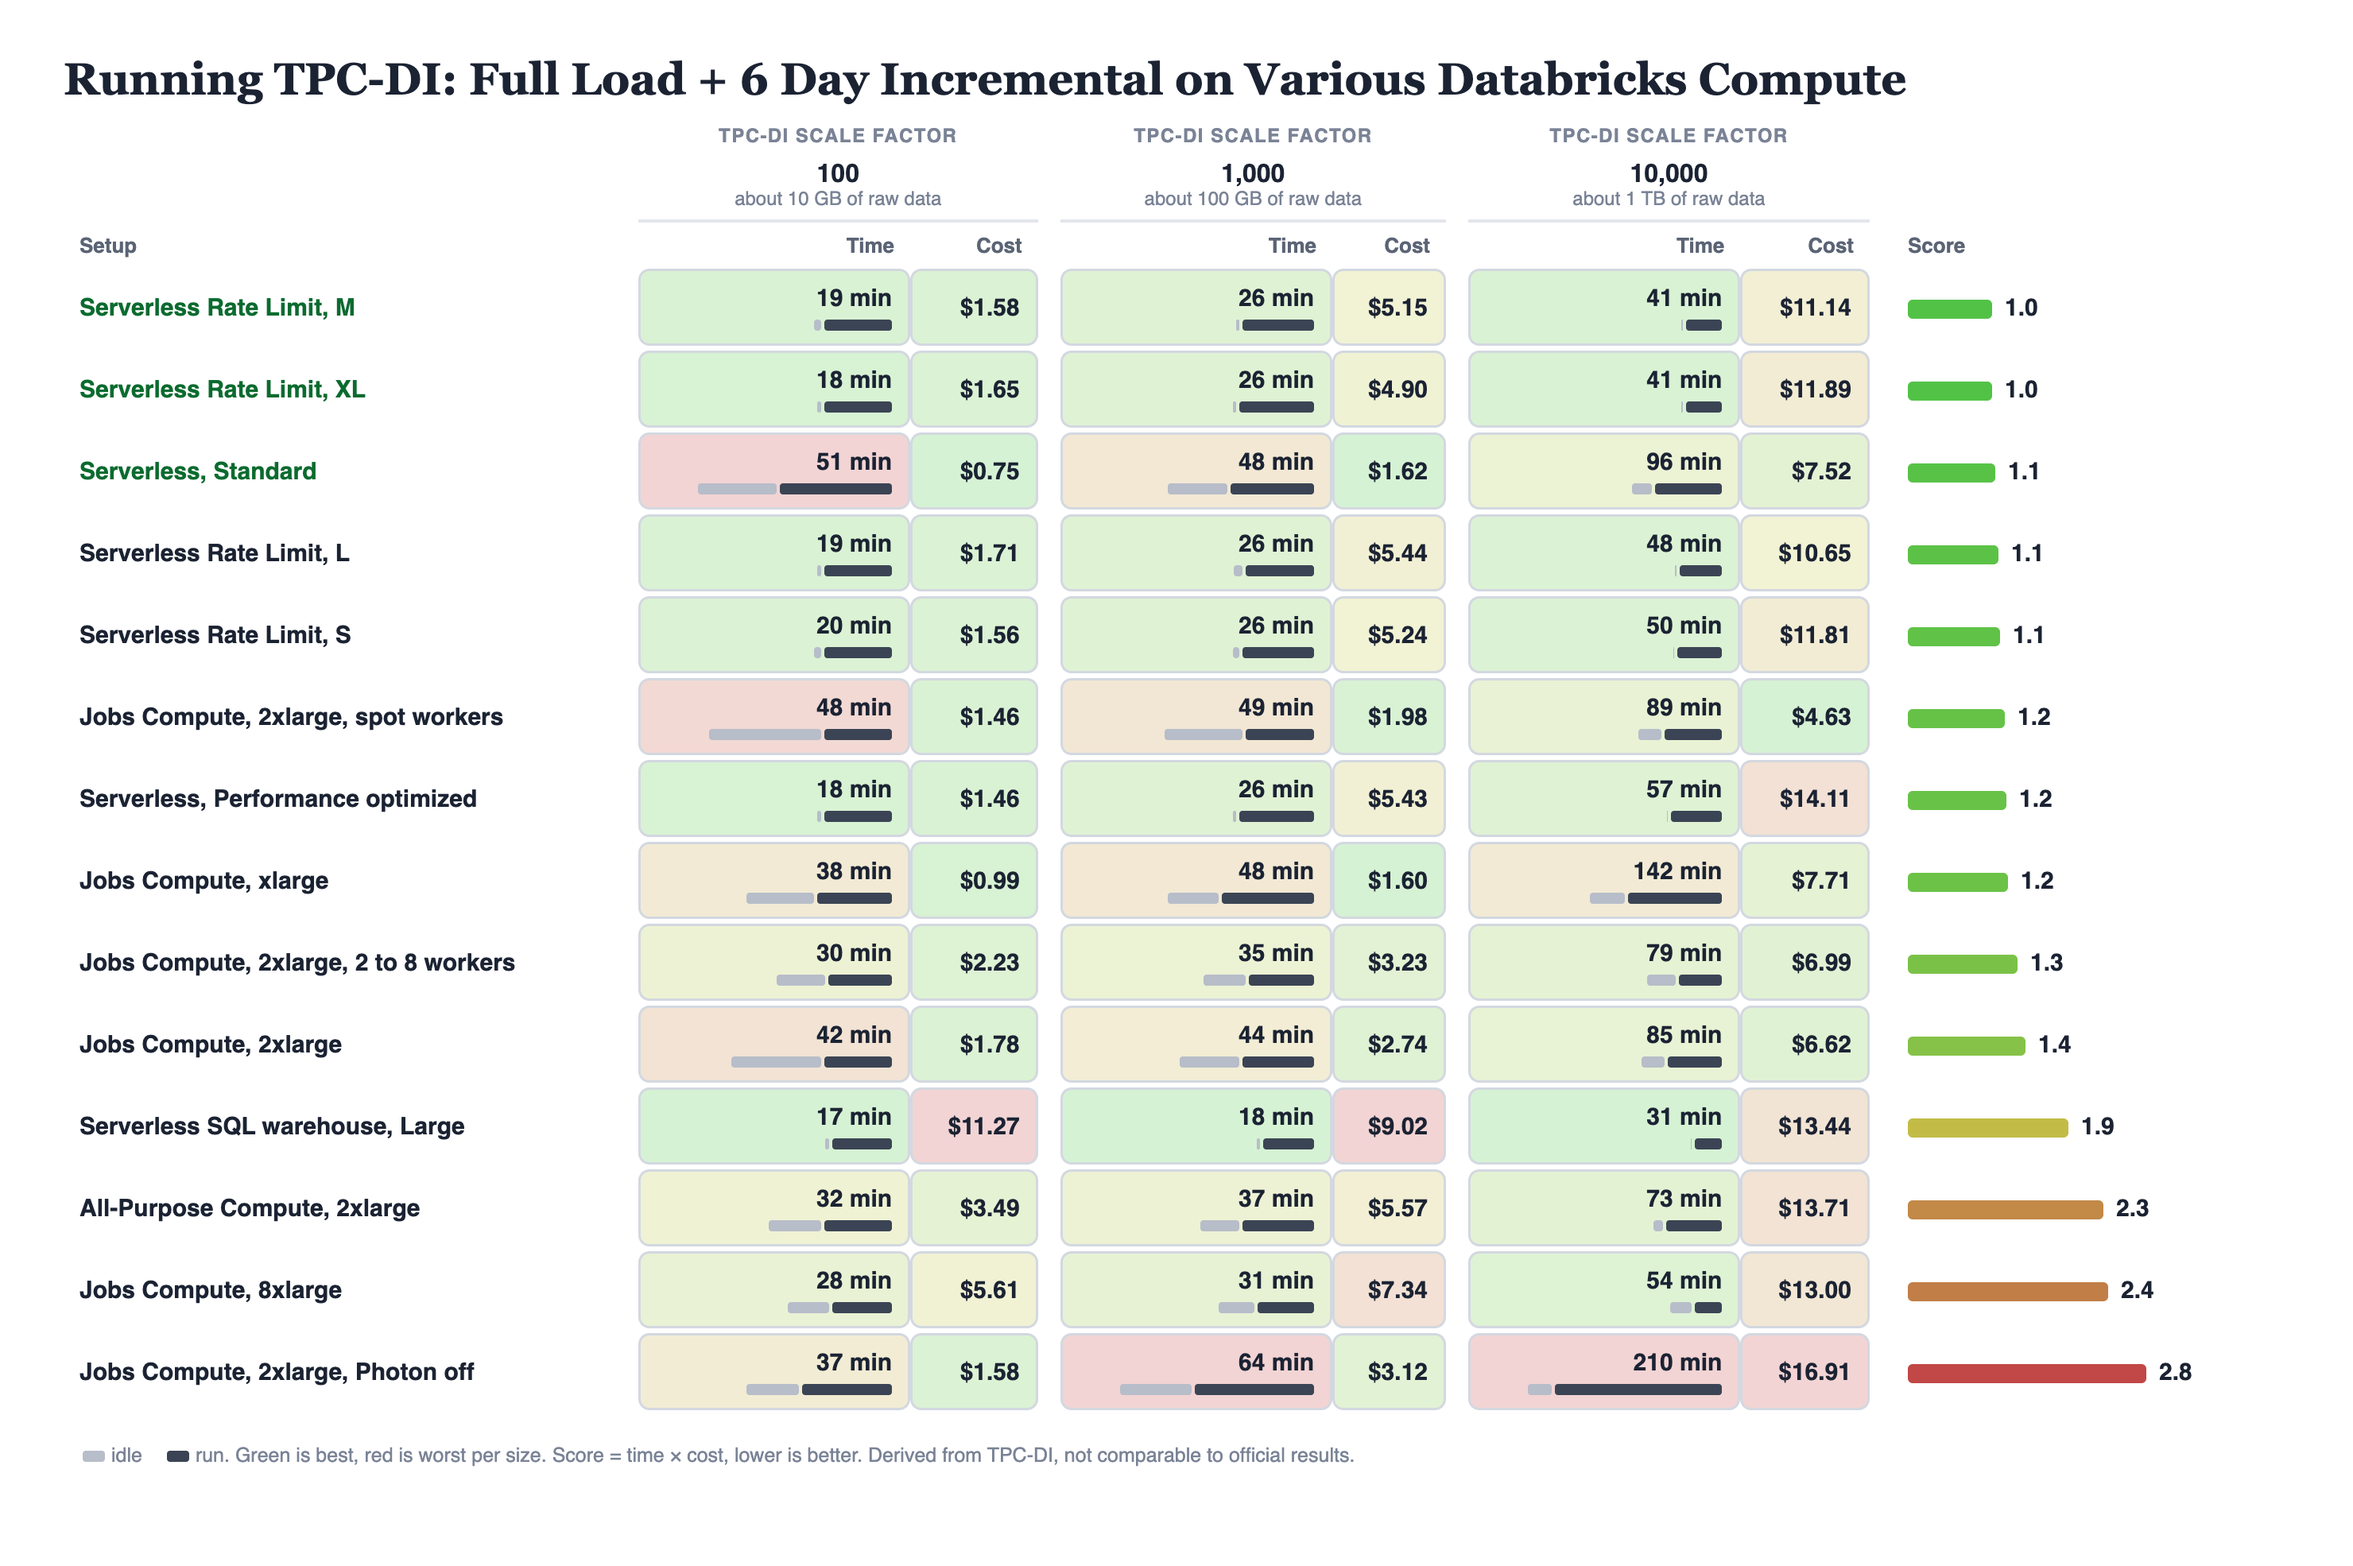
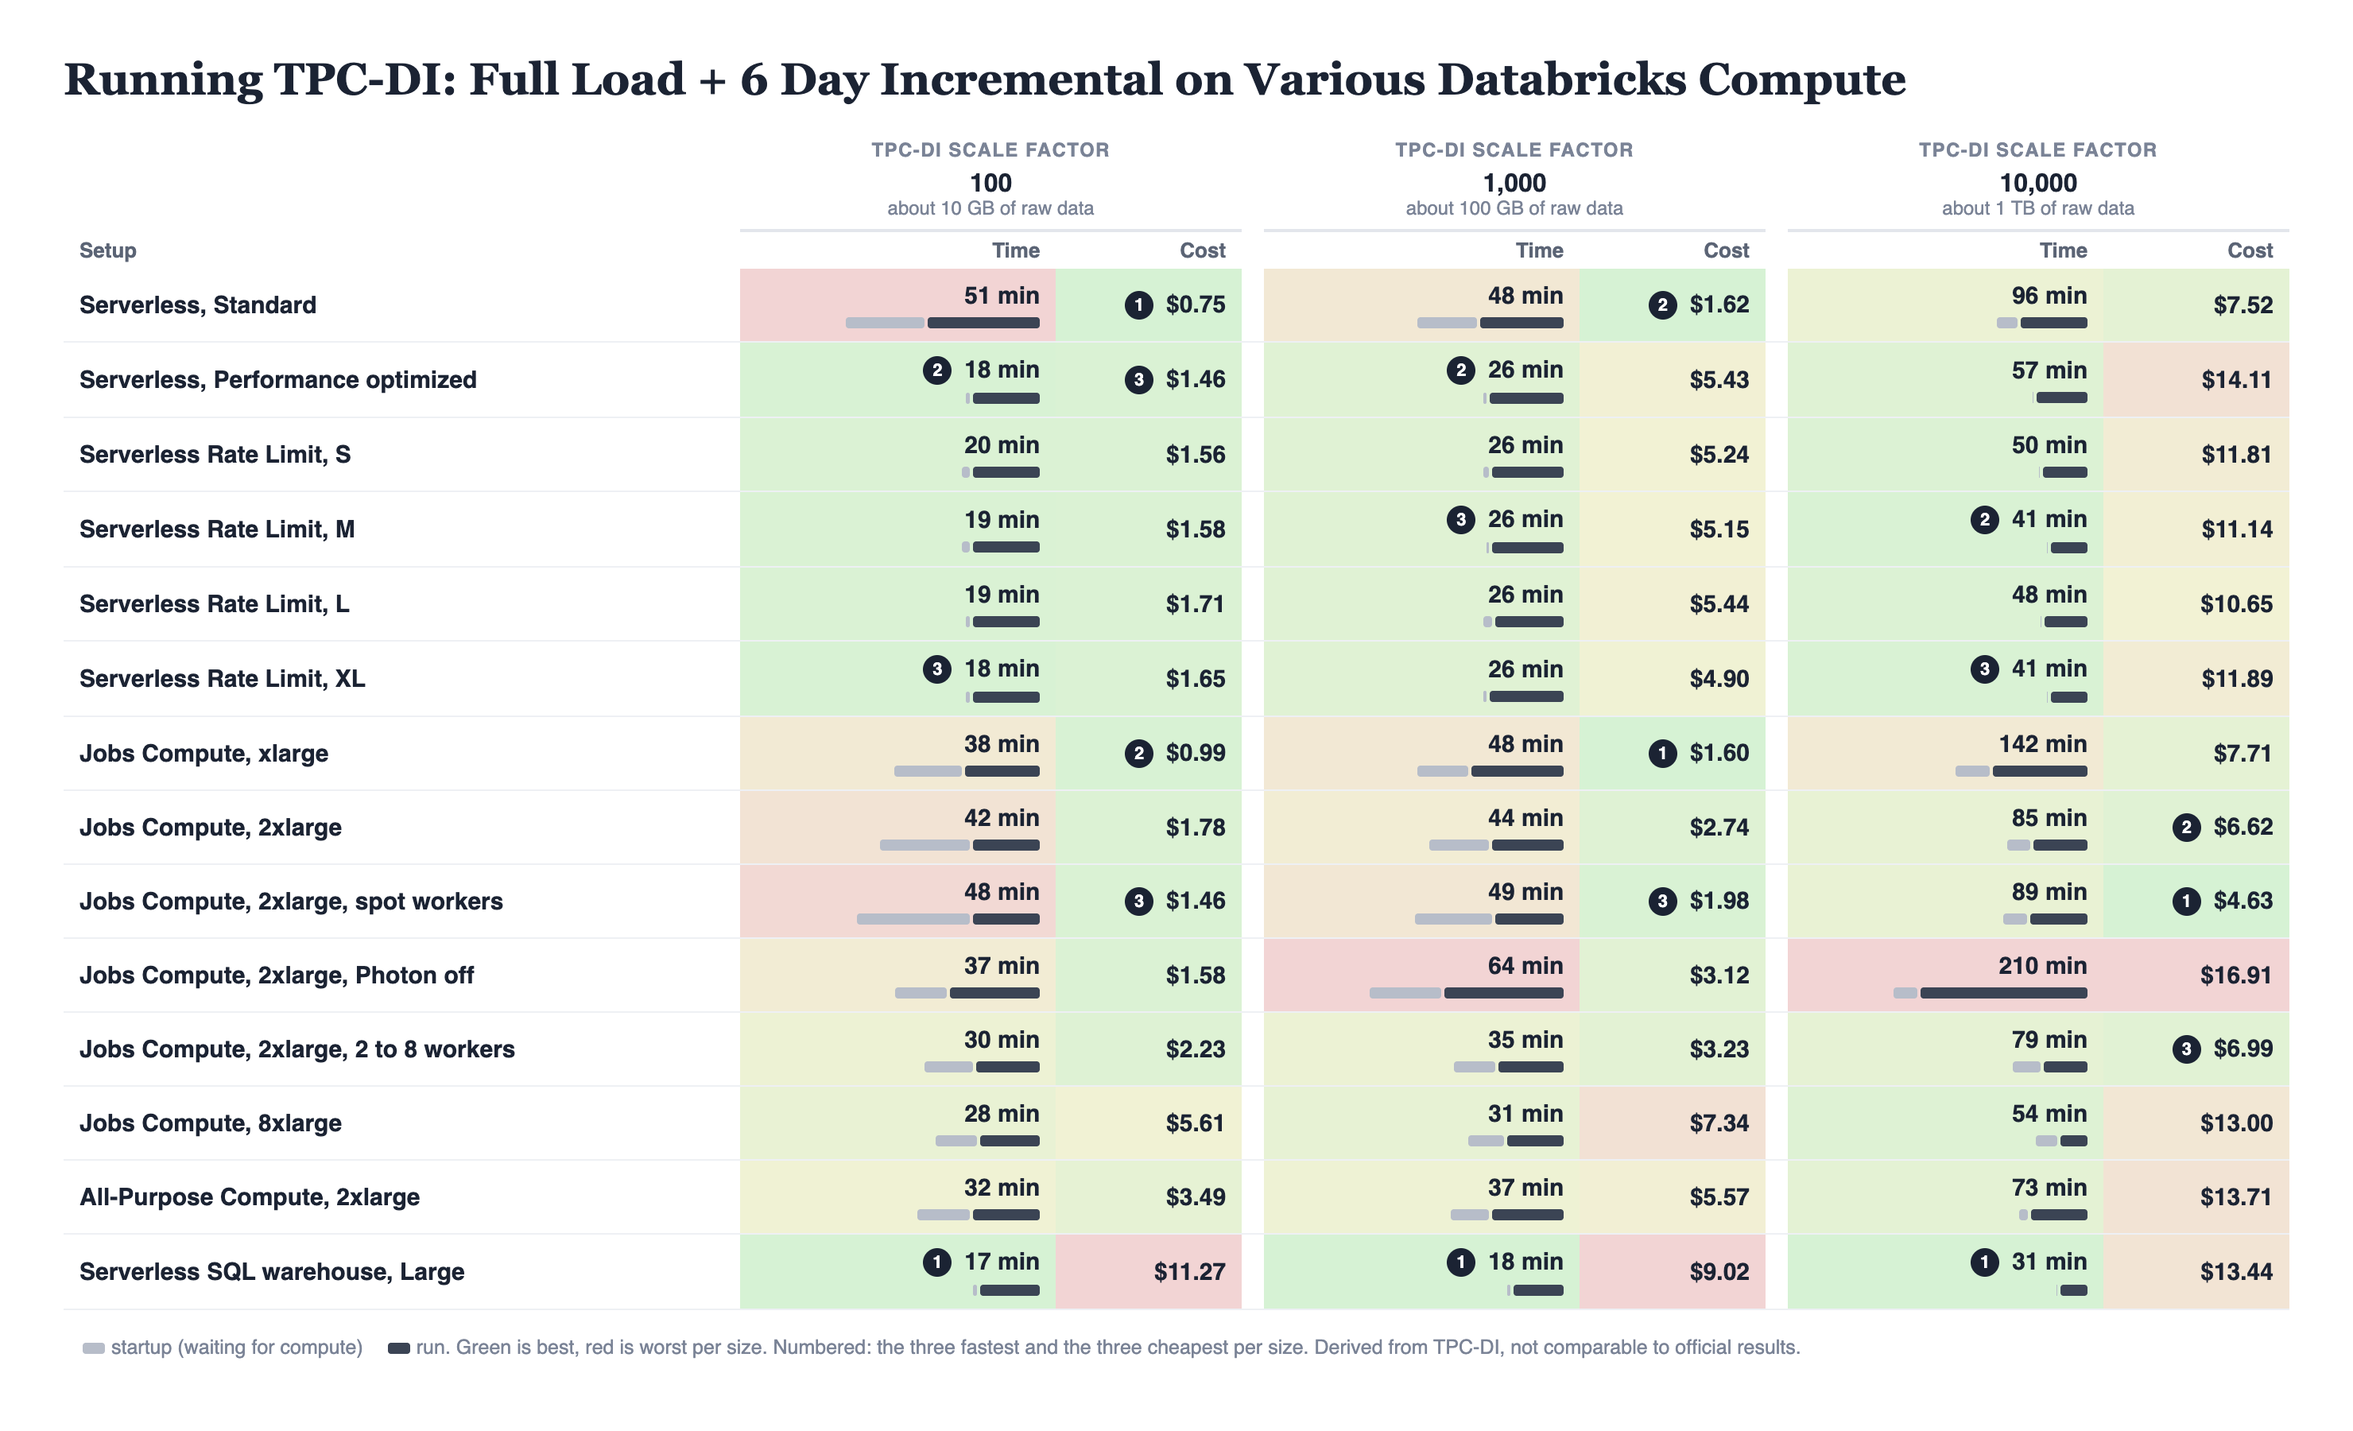
Results: time and cost only, top 3 numbered per size, startup instead of idle

diff --git a/README.md b/README.md
@@ -17,32 +17,31 @@ The reasoning for each is in [docs/conclusions.md](docs/conclusions.md).
 
 ## Results
 
-Each cell is the **full load plus six days** added together: idle minutes (waiting) + run minutes (working) = total minutes, and cost (Databricks plus AWS list price). Every cell is one run. In the picture, green is best and red is worst within each size.
+Each cell is the **full load plus six days** added together: startup minutes (waiting for compute) + run minutes (working) = total minutes, and cost (Databricks plus AWS list price). Every cell is one run. In the picture, green is best and red is worst within each size.
 
 ![Results: minutes and cost for every setup at three sizes, sorted by score](docs/img/results-heat.png)
 
 <details><summary>Same table as text</summary>
 
-| Setup | SF 100 | SF 1,000 | SF 10,000 | Score |
-|---|---|---|---|---|
-| Serverless Rate Limit, M | 2 + 18 = **19** min · **$1.58** | 1 + 24 = **26** min · **$5.15** | 1 + 40 = **41** min · **$11.14** | **1.0** |
-| Serverless Rate Limit, XL | 1 + 18 = **18** min · **$1.65** | 1 + 25 = **26** min · **$4.90** | 1 + 40 = **41** min · **$11.89** | **1.0** |
-| Serverless, Standard | 21 + 30 = **51** min · **$0.75** | 20 + 28 = **48** min · **$1.62** | 22 + 74 = **96** min · **$7.52** | **1.1** |
-| Serverless Rate Limit, L | 1 + 18 = **19** min · **$1.71** | 3 + 23 = **26** min · **$5.44** | 1 + 47 = **48** min · **$10.65** | **1.1** |
-| Serverless Rate Limit, S | 2 + 18 = **20** min · **$1.56** | 2 + 24 = **26** min · **$5.24** | 1 + 49 = **50** min · **$11.81** | **1.1** |
-| Jobs Compute, 2xlarge, spot workers | 30 + 18 = **48** min · **$1.46** | 26 + 23 = **49** min · **$1.98** | 26 + 63 = **89** min · **$4.63** † | **1.2** |
-| Serverless, Performance optimized | 1 + 18 = **18** min · **$1.46** | 1 + 25 = **26** min · **$5.43** | 1 + 56 = **57** min · **$14.11** | **1.2** |
-| Jobs Compute, xlarge | 18 + 20 = **38** min · **$0.99** | 17 + 31 = **48** min · **$1.60** | 38 + 104 = **142** min · **$7.71** † | **1.2** |
-| Jobs Compute, 2xlarge, 2 to 8 workers | 13 + 17 = **30** min · **$2.23** | 14 + 22 = **35** min · **$3.23** | 31 + 48 = **79** min · **$6.99** † | **1.3** |
-| Jobs Compute, 2xlarge | 24 + 18 = **42** min · **$1.78** | 20 + 24 = **44** min · **$2.74** | 25 + 60 = **85** min · **$6.62** † | **1.4** |
-| Serverless SQL warehouse, Large | 1 + 16 = **17** min · **$11.27** | 1 + 17 = **18** min · **$9.02** | 1 + 30 = **31** min · **$13.44** † | **1.9** |
-| All-Purpose Compute, 2xlarge | 14 + 18 = **32** min · **$3.49** | 13 + 24 = **37** min · **$5.57** | 10 + 62 = **73** min · **$13.71** † | **2.3** |
-| Jobs Compute, 8xlarge | 11 + 16 = **28** min · **$5.61** | 12 + 19 = **31** min · **$7.34** | 24 + 30 = **54** min · **$13.00** † | **2.4** |
-| Jobs Compute, 2xlarge, Photon off | 14 + 24 = **37** min · **$1.58** | 24 + 40 = **64** min · **$3.12** | 26 + 184 = **210** min · **$16.91** † | **2.8** |
+| Setup | SF 100 | SF 1,000 | SF 10,000 |
+|---|---|---|---|
+| Serverless, Standard | startup 21 + run 30 = **51** min · **$0.75** | startup 20 + run 28 = **48** min · **$1.62** | startup 22 + run 74 = **96** min · **$7.52** |
+| Serverless, Performance optimized | startup 1 + run 18 = **18** min · **$1.46** | startup 1 + run 25 = **26** min · **$5.43** | startup 1 + run 56 = **57** min · **$14.11** |
+| Serverless Rate Limit, S | startup 2 + run 18 = **20** min · **$1.56** | startup 2 + run 24 = **26** min · **$5.24** | startup 1 + run 49 = **50** min · **$11.81** |
+| Serverless Rate Limit, M | startup 2 + run 18 = **19** min · **$1.58** | startup 1 + run 24 = **26** min · **$5.15** | startup 1 + run 40 = **41** min · **$11.14** |
+| Serverless Rate Limit, L | startup 1 + run 18 = **19** min · **$1.71** | startup 3 + run 23 = **26** min · **$5.44** | startup 1 + run 47 = **48** min · **$10.65** |
+| Serverless Rate Limit, XL | startup 1 + run 18 = **18** min · **$1.65** | startup 1 + run 25 = **26** min · **$4.90** | startup 1 + run 40 = **41** min · **$11.89** |
+| Jobs Compute, xlarge | startup 18 + run 20 = **38** min · **$0.99** | startup 17 + run 31 = **48** min · **$1.60** | startup 38 + run 104 = **142** min · **$7.71** |
+| Jobs Compute, 2xlarge | startup 24 + run 18 = **42** min · **$1.78** | startup 20 + run 24 = **44** min · **$2.74** | startup 25 + run 60 = **85** min · **$6.62** |
+| Jobs Compute, 2xlarge, spot workers | startup 30 + run 18 = **48** min · **$1.46** | startup 26 + run 23 = **49** min · **$1.98** | startup 26 + run 63 = **89** min · **$4.63** |
+| Jobs Compute, 2xlarge, Photon off | startup 14 + run 24 = **37** min · **$1.58** | startup 24 + run 40 = **64** min · **$3.12** | startup 26 + run 184 = **210** min · **$16.91** |
+| Jobs Compute, 2xlarge, 2 to 8 workers | startup 13 + run 17 = **30** min · **$2.23** | startup 14 + run 22 = **35** min · **$3.23** | startup 31 + run 48 = **79** min · **$6.99** |
+| Jobs Compute, 8xlarge | startup 11 + run 16 = **28** min · **$5.61** | startup 12 + run 19 = **31** min · **$7.34** | startup 24 + run 30 = **54** min · **$13.00** |
+| All-Purpose Compute, 2xlarge | startup 14 + run 18 = **32** min · **$3.49** | startup 13 + run 24 = **37** min · **$5.57** | startup 10 + run 62 = **73** min · **$13.71** |
+| Serverless SQL warehouse, Large | startup 1 + run 16 = **17** min · **$11.27** | startup 1 + run 17 = **18** min · **$9.02** | startup 1 + run 30 = **31** min · **$13.44** |
 
 </details>
 
-**Score** = minutes × dollars at each size, averaged across the three sizes (geometric mean), shown relative to the best setup (1.0). Lower is better, and the table is sorted by it. It rewards setups that are both fast and cheap, so a setup that wins on only one of the two lands in the middle.
 
 † SF 10,000 classic and warehouse costs are estimates from smaller sizes, see [docs/cost-provenance.md](docs/cost-provenance.md). Per-setup detail (full load and an average day, separately): [results/final_table.md](results/final_table.md).
 
